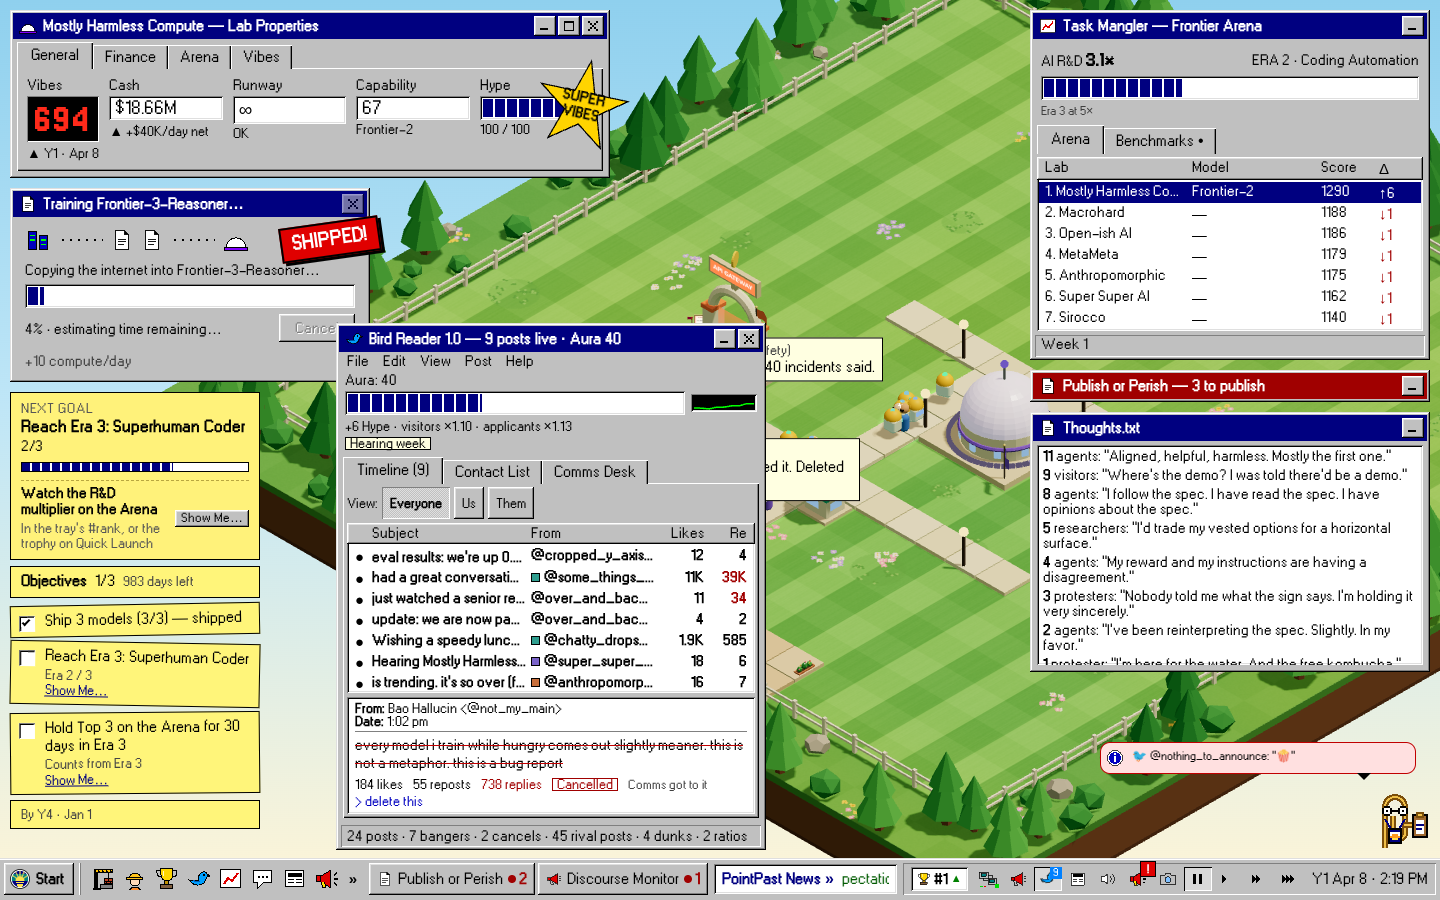
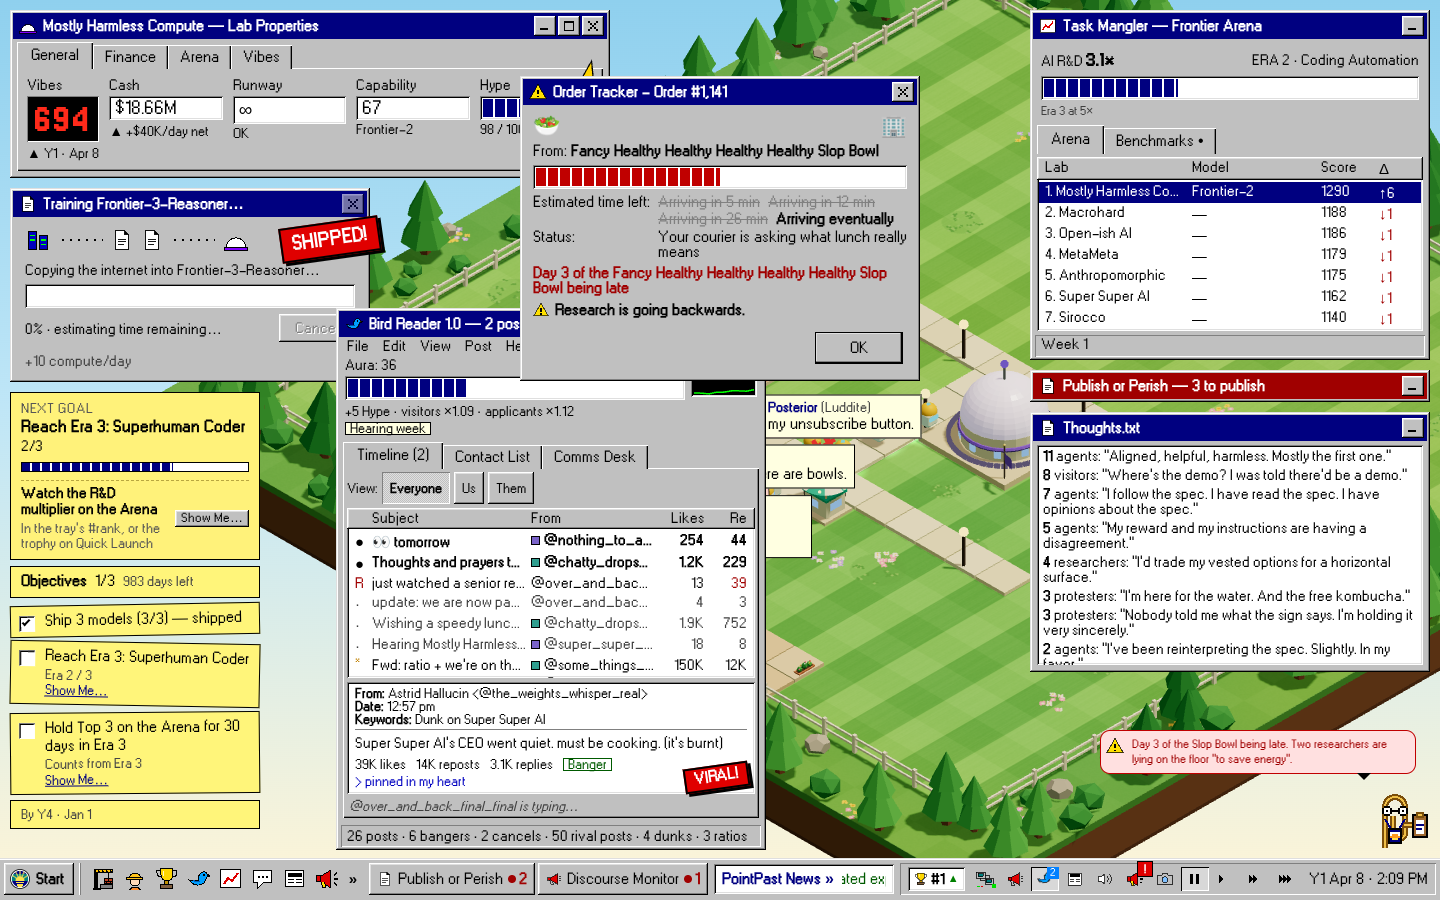
FLT-109: slop-noon and slop-fed links, the tracker below the toasts in the base skin, docs, new before/after shots

diff --git a/src/sim/slopbowl/demo.ts b/src/sim/slopbowl/demo.ts
@@ -1,4 +1,4 @@
-// Review links for the late lunch (FLT-109): `?moment=slop-late` (day three: the crowd at the gate, two of them on the
+// Review links for the late lunch (FLT-109): `?moment=slop-noon` (just before the order falls due, late), `slop-late` (day three: the crowd at the gate, two of them on the
 // floor, the tracker's ETA slipping, the posts and the rival labs piling on, the run going backwards), `slop-card` (a day
 // late, the card on screen), `slop-arrives` (three days late: the courier at the gate handing the bowls over) and
 // `slop-fed` (everyone eating). Defection's lab a year in, played to noon with the order
@@ -14,10 +14,10 @@ import { answer } from "../testkit";
 import { applyNow, tick } from "../tick";
 import type { GameState } from "../types";
 import { enableBirdApp } from "../birdapp/driver";
-import { enableSlopBowl, LATE_FLAG, offerCard } from "./driver";
+import { enableSlopBowl, isDue, LATE_FLAG, offerCard } from "./driver";
 import { CARD } from "./pack";
 
-export const SLOP_MOMENTS = ["slop-late", "slop-card", "slop-arrives", "slop-fed"] as const;
+export const SLOP_MOMENTS = ["slop-noon", "slop-late", "slop-card", "slop-arrives", "slop-fed"] as const;
 export type SlopMoment = (typeof SLOP_MOMENTS)[number];
 export const isSlopMoment = (m: string | null | undefined): m is SlopMoment => (SLOP_MOMENTS as readonly unknown[]).includes(m);
 
@@ -44,6 +44,11 @@ function stage(s: GameState, moment: SlopMoment) {
   enableSlopBowl(s);
   s.flags[LATE_FLAG] = s.day;
   const stage = (v: string) => (w: GameState) => w.slopbowl!.machine.value === v;
+  // `slop-noon`: a moment before the order falls due (and is late), for a film of the whole thing from the start.
+  if (moment === "slop-noon") {
+    until(s, (w) => isDue(w.tick + 10), 8);
+    return;
+  }
   // Noon on the campus clock: the order falls due, and it is late.
   until(s, stage("late"), 8);
   if (moment === "slop-card") {

diff --git a/src/skins/base/lunch.css b/src/skins/base/lunch.css
@@ -1,5 +1,5 @@
 /* FLT-109: the late lunch's delivery tracker. Host-rendered, over the docked HUD, under the cards. */
-.lunch-layer { position: fixed; top: 76px; left: 50%; transform: translateX(-50%); z-index: 30; pointer-events: none; }
+.lunch-layer { position: fixed; top: 168px; left: 50%; transform: translateX(-50%); z-index: 30; pointer-events: none; }
 .lunch-layer > * { pointer-events: auto; }
 .lunch-tracker { width: 320px; max-width: calc(100vw - 24px); padding: 10px 12px; display: grid; gap: 4px; font-size: 13px; }
 .lunch-head { display: flex; gap: 8px; align-items: center; }
@@ -16,4 +16,4 @@
 .lunch-day { font-weight: 700; color: #b3261e; }
 .lunch-warn { font-size: 11px; font-weight: 700; color: #b3261e; text-transform: uppercase; letter-spacing: 0.04em; }
 .stage-fed .lunch-eta b { color: #2c7d15; }
-@media (max-width: 640px) { .lunch-layer { top: 120px; } .lunch-tracker { width: 300px; font-size: 12px; } }
+@media (max-width: 640px) { .lunch-layer { top: 200px; } .lunch-tracker { width: 300px; font-size: 12px; } }

diff --git a/src/skins/frontier-95/skin.css b/src/skins/frontier-95/skin.css
@@ -6558,6 +6558,11 @@
 
 /* FLT-109: the late lunch's Order Tracker, a download dialog that never finishes. Top middle, over the campus. */
 [data-skin="frontier-95"] {
+  /* No toast dock in this skin (the paperclip talks), so the tracker can sit at the top. */
+  .lunch-layer { top: 76px; }
+  @media (max-width: 640px) {
+    .lunch-layer { top: 120px; }
+  }
   .f95-win.f95-lunch { width: 400px; max-width: calc(100vw - 16px); }
   .f95-lunch-body { padding: 8px 10px 10px; display: grid; gap: 6px; }
   .f95-lunch-anim { display: flex; align-items: center; gap: 8px; font-size: 22px; }

diff --git a/src/sim/slopbowl/slopbowl.test.ts b/src/sim/slopbowl/slopbowl.test.ts
@@ -186,7 +186,7 @@ describe("a late lunch in the game", () => {
   });
 
   it("stages its review links", () => {
-    for (const [moment, value] of [["slop-late", "meltdown"], ["slop-card", "hangry"], ["slop-arrives", "arriving"], ["slop-fed", "fed"]] as const) {
+    for (const [moment, value] of [["slop-noon", "quiet"], ["slop-late", "meltdown"], ["slop-card", "hangry"], ["slop-arrives", "arriving"], ["slop-fed", "fed"]] as const) {
       const s = createInitialState(1);
       delete s.progression;
       enableEarnedPacks(s);

diff --git a/docs/img/flt-109/report.md b/docs/img/flt-109/report.md
@@ -1,12 +1,14 @@
 
-| Scene | Before (`main` @ aa86c07) | After (`flt-109-slop-bowl-late` @ 370bb99+) |
+| Scene | Before (`main` @ aa86c07) | After (`flt-109-slop-bowl-late` @ a93ba96+) |
 |---|---|---|
-| **slop-late**<br>25.7% px differ | ![slop-late](https://github.com/Manzanita-Research/frontier-lab-tycoon/blob/flt-109-slop-bowl-late/docs/img/flt-109/before/slop-late.png?raw=true) | ![slop-late](https://github.com/Manzanita-Research/frontier-lab-tycoon/blob/flt-109-slop-bowl-late/docs/img/flt-109/after/slop-late.png?raw=true) |
-| **slop-card**<br>32.3% px differ | ![slop-card](https://github.com/Manzanita-Research/frontier-lab-tycoon/blob/flt-109-slop-bowl-late/docs/img/flt-109/before/slop-card.png?raw=true) | ![slop-card](https://github.com/Manzanita-Research/frontier-lab-tycoon/blob/flt-109-slop-bowl-late/docs/img/flt-109/after/slop-card.png?raw=true) |
-| **slop-bird**<br>31.3% px differ | ![slop-bird](https://github.com/Manzanita-Research/frontier-lab-tycoon/blob/flt-109-slop-bowl-late/docs/img/flt-109/before/slop-bird.png?raw=true) | ![slop-bird](https://github.com/Manzanita-Research/frontier-lab-tycoon/blob/flt-109-slop-bowl-late/docs/img/flt-109/after/slop-bird.png?raw=true) |
-| **slop-arrives**<br>88.5% px differ | ![slop-arrives](https://github.com/Manzanita-Research/frontier-lab-tycoon/blob/flt-109-slop-bowl-late/docs/img/flt-109/before/slop-arrives.png?raw=true) | ![slop-arrives](https://github.com/Manzanita-Research/frontier-lab-tycoon/blob/flt-109-slop-bowl-late/docs/img/flt-109/after/slop-arrives.png?raw=true) |
-| **slop-arrives-plain**<br>28.0% px differ | ![slop-arrives-plain](https://github.com/Manzanita-Research/frontier-lab-tycoon/blob/flt-109-slop-bowl-late/docs/img/flt-109/before/slop-arrives-plain.png?raw=true) | ![slop-arrives-plain](https://github.com/Manzanita-Research/frontier-lab-tycoon/blob/flt-109-slop-bowl-late/docs/img/flt-109/after/slop-arrives-plain.png?raw=true) |
-| **slop-late-phone**<br>17.6% px differ | ![slop-late-phone](https://github.com/Manzanita-Research/frontier-lab-tycoon/blob/flt-109-slop-bowl-late/docs/img/flt-109/before/slop-late-phone.png?raw=true) | ![slop-late-phone](https://github.com/Manzanita-Research/frontier-lab-tycoon/blob/flt-109-slop-bowl-late/docs/img/flt-109/after/slop-late-phone.png?raw=true) |
-| **slop-arrives-phone**<br>89.3% px differ | ![slop-arrives-phone](https://github.com/Manzanita-Research/frontier-lab-tycoon/blob/flt-109-slop-bowl-late/docs/img/flt-109/before/slop-arrives-phone.png?raw=true) | ![slop-arrives-phone](https://github.com/Manzanita-Research/frontier-lab-tycoon/blob/flt-109-slop-bowl-late/docs/img/flt-109/after/slop-arrives-phone.png?raw=true) |
+| **slop-late**<br>30.4% px differ | ![slop-late](https://github.com/Manzanita-Research/frontier-lab-tycoon/blob/flt-109-slop-bowl-late/docs/img/flt-109/before/slop-late.png?raw=true) | ![slop-late](https://github.com/Manzanita-Research/frontier-lab-tycoon/blob/flt-109-slop-bowl-late/docs/img/flt-109/after/slop-late.png?raw=true) |
+| **slop-late-close**<br>24.6% px differ | ![slop-late-close](https://github.com/Manzanita-Research/frontier-lab-tycoon/blob/flt-109-slop-bowl-late/docs/img/flt-109/before/slop-late-close.png?raw=true) | ![slop-late-close](https://github.com/Manzanita-Research/frontier-lab-tycoon/blob/flt-109-slop-bowl-late/docs/img/flt-109/after/slop-late-close.png?raw=true) |
+| **slop-card**<br>37.7% px differ | ![slop-card](https://github.com/Manzanita-Research/frontier-lab-tycoon/blob/flt-109-slop-bowl-late/docs/img/flt-109/before/slop-card.png?raw=true) | ![slop-card](https://github.com/Manzanita-Research/frontier-lab-tycoon/blob/flt-109-slop-bowl-late/docs/img/flt-109/after/slop-card.png?raw=true) |
+| **slop-bird**<br>39.9% px differ | ![slop-bird](https://github.com/Manzanita-Research/frontier-lab-tycoon/blob/flt-109-slop-bowl-late/docs/img/flt-109/before/slop-bird.png?raw=true) | ![slop-bird](https://github.com/Manzanita-Research/frontier-lab-tycoon/blob/flt-109-slop-bowl-late/docs/img/flt-109/after/slop-bird.png?raw=true) |
+| **slop-arrives**<br>90.7% px differ | ![slop-arrives](https://github.com/Manzanita-Research/frontier-lab-tycoon/blob/flt-109-slop-bowl-late/docs/img/flt-109/before/slop-arrives.png?raw=true) | ![slop-arrives](https://github.com/Manzanita-Research/frontier-lab-tycoon/blob/flt-109-slop-bowl-late/docs/img/flt-109/after/slop-arrives.png?raw=true) |
+| **slop-fed**<br>34.2% px differ | ![slop-fed](https://github.com/Manzanita-Research/frontier-lab-tycoon/blob/flt-109-slop-bowl-late/docs/img/flt-109/before/slop-fed.png?raw=true) | ![slop-fed](https://github.com/Manzanita-Research/frontier-lab-tycoon/blob/flt-109-slop-bowl-late/docs/img/flt-109/after/slop-fed.png?raw=true) |
+| **slop-late-classic**<br>24.9% px differ | ![slop-late-classic](https://github.com/Manzanita-Research/frontier-lab-tycoon/blob/flt-109-slop-bowl-late/docs/img/flt-109/before/slop-late-classic.png?raw=true) | ![slop-late-classic](https://github.com/Manzanita-Research/frontier-lab-tycoon/blob/flt-109-slop-bowl-late/docs/img/flt-109/after/slop-late-classic.png?raw=true) |
+| **slop-late-phone**<br>39.8% px differ | ![slop-late-phone](https://github.com/Manzanita-Research/frontier-lab-tycoon/blob/flt-109-slop-bowl-late/docs/img/flt-109/before/slop-late-phone.png?raw=true) | ![slop-late-phone](https://github.com/Manzanita-Research/frontier-lab-tycoon/blob/flt-109-slop-bowl-late/docs/img/flt-109/after/slop-late-phone.png?raw=true) |
+| **slop-arrives-phone**<br>89.7% px differ | ![slop-arrives-phone](https://github.com/Manzanita-Research/frontier-lab-tycoon/blob/flt-109-slop-bowl-late/docs/img/flt-109/before/slop-arrives-phone.png?raw=true) | ![slop-arrives-phone](https://github.com/Manzanita-Research/frontier-lab-tycoon/blob/flt-109-slop-bowl-late/docs/img/flt-109/after/slop-arrives-phone.png?raw=true) |
 
-_pnpm shots: 7 scene(s) in 233.3s (14/14 captures ok)._
+_pnpm shots: 9 scene(s) in 361.9s (18/18 captures ok)._

diff --git a/mods/base-slopbowl/README.md b/mods/base-slopbowl/README.md
@@ -1,12 +1,12 @@
 # The Slop Bowl is late (FLT-109)
 
-The researchers' favourite lunch place, **Fancy Healthy Healthy Healthy Healthy Slop Bowl**, is three hours late. Everyone
-gets hangry, research goes backwards, the Aura drops, and then the bowls arrive. Jem's idea. Every line is in
-`docs/specs/FLT-109-script.md`.
+The researchers' favourite lunch place, **Fancy Healthy Healthy Healthy Healthy Slop Bowl**, is three days late. Everyone
+gets hangry, research goes backwards, the Aura drops, a delivery tracker's ETA keeps slipping, and then the bowls
+arrive. Jem's idea. Every line is in `docs/specs/FLT-109-script.md`.
 
-The pack is one card (`content.events.add`) plus `rules.slopbowl`: the place's name, the odds, the campus-clock timing,
-how far research slides, the crowd, the courier, and every beat's toast, headlines, thoughts, posts and rival posts. It is
-loaded directly by `src/sim/slopbowl/pack.ts`, like `base-yacht`.
+The pack is one card (`content.events.add`) plus `rules.slopbowl`: the place's name, the odds, the timing in game days,
+how far research slides, the crowd, the courier, the tracker's lines, and every beat's toast, headlines, thoughts, posts
+and rival posts. It is loaded directly by `src/sim/slopbowl/pack.ts`, like `base-yacht`.
 
 ## When it happens
 
@@ -17,31 +17,38 @@ loaded directly by `src/sim/slopbowl/pack.ts`, like `base-yacht`.
   noons running. A lab whose lunch is never late plays exactly as it would without the pack.
 - A Daily Drama pack (or a test) makes the next noon's order late with `flag.set` `slopbowl:late`.
 
-## The afternoon
+## The three days
 
-`src/sim/slopbowl/machine.ts`: quiet → late (noon) → hangry (+1 hour) → worse (+2) → arriving (+3) → fed (the courier has
-handed the bowls over) → quiet (two hours later). One campus hour is 25 ticks. The driver (`driver.ts`) plays each beat
-the machine emits, and only asks the machine on the ticks something can happen.
+`src/sim/slopbowl/machine.ts`: quiet → late (noon) → hangry (+1 day) → worse (+2) → meltdown (+2½) → arriving (+3) → fed
+(the courier has handed the bowls over) → quiet (two days of lunch later). The lateness is counted in game days, the clock
+the player sees go by (a game day is about 6 seconds at 1×). The driver (`driver.ts`) plays each beat the machine emits,
+and only asks the machine every half day while an order is out.
 
-- **The crowd** (`crowd.ts`, read by `walkers.ts`): from noon a share of the researchers (`crowd.late`, `.hangry`,
-  `.worse`) drop what they are doing and wait just inside the gate, pacing between spots and staring at the gate when
-  they stop. Who goes and where they stand is arithmetic on their id and the tick: no dice.
+- **The tracker** (`view.ts`, the `OrderTracker` slot): it opens when the order is late, the ETA slipping at every stage
+  (the old ones struck through) while the courier's dot wanders the route, and says "Delivered" for ten days after, or
+  until it is closed. Frontier 95 draws "Order Tracker" as a download dialog; the other skins, a toast-sized card.
+- **The crowd** (`crowd.ts`, read by `walkers.ts`): from noon a share of the researchers (`crowd.*`) drop what they are
+  doing and hurry to wait just inside the gate, pacing between spots and staring at the gate when they stop. On day three
+  `flop` of them lie down on the floor and stay there. Who goes and where they stand is arithmetic on their id and the
+  tick: no dice. The renderer draws a red anger mark over each of them.
 - **Research** (`research.ts`, read by `training.ts`): while hungry, a day of training takes away `research.backwards` of
   what it would have added (never below zero); fed, the lab wins it back at `research.catchUp` of a day's gain a day.
   The training window has no ETA while it slides (Frontier 95: "estimating time remaining…").
 - **Aura**: the Bird App's (FLT-69), nudged by each beat's `aura`. While the Bird App is asleep the Vibes take it (×10).
-- **The card**: up an hour late, once the ladder has opened cards (Level 5). It is minor colour (FLT-54): with the budget
+- **The card**: up a day late, once the ladder has opened cards (Level 5). It is minor colour (FLT-54): with the budget
   spent, or at 10×, the chief of staff answers "Wait. It's worth it." and the ticker says so. Answers come back as
   `slopbowl:pick:*` flags.
-- **The courier**: a visitor with the role `Slop Bowl Courier` (lettuce green, `render/look.ts`) walks in from the gate
-  and talks with the researcher nearest it (`sim/meetings.ts`), then goes home.
+- **The courier**: a visitor with the role `Slop Bowl Courier` (lettuce green, `render/look.ts`, carrying a paper bag of
+  bowls) walks in from the gate and talks with the researcher nearest it (`sim/meetings.ts`), then goes home.
+- **Lunch**: everyone at the gate gets up and eats where they stand for `days.fed` days (a bowl in hand, lifted now and
+  then), then goes back to work.
 
 ## Saved state
 
 `GameState.slopbowl` (`state.ts`): `enabled`, `rngState`, the machine, `wokeDay`, `lastDay`, `crowd`, `owed` (research to
-win back), the courier and host, the bubbles it put up, and a tally. Additive.
+win back), the courier and host, who is on the floor (`flopped`), the bubbles it put up, and a tally. Additive.
 
 ## Review links
 
-`?moment=slop-late` (two hours late), `?moment=slop-card` (the card), `?moment=slop-arrives&beat` (the bowls arrive). The
-`pnpm shots` set is `flt-109`.
+`?moment=slop-noon` (just before noon, the order about to be late), `?moment=slop-late` (day three), `?moment=slop-card`
+(the card), `?moment=slop-arrives&beat` (the bowls arrive), `?moment=slop-fed` (lunch). The `pnpm shots` set is `flt-109`.

diff --git a/AGENTS.md b/AGENTS.md
@@ -47,7 +47,7 @@ It builds `main` in a temporary worktree (cached by commit in `shots/.cache/`) a
 - `src/sim/disasters/` and `src/sim/verbs.ts`: disasters as JSON statecharts (`mods/base-disasters/mod.json`) plus the Vocabulary of generic guards and verbs they call. Adding a disaster is a JSON entry; read `docs/DISASTERS.md`.
 - `mods/base-leapfrog/`: the Release Leapfrog content pack (FLT-27, the FLT-15 section shape; loaded by `src/content/leapfrog.ts`), its machines in `src/sim/race/leapfrog/`; asleep until its ladder rung is earned (`PACKS` in `src/sim/progression.ts` wakes Leapfrog, Papers, Collusion, the Hearing, the yacht, Defection, Poaching, the auditors, Regulatory Capture, the Promise Tracker, the Factions and the Bird App; `?leapfrog=off`, `?papers=off`, `?collusion=off`, `?hearing=off`, `?factions=off`, `?birdapp=off`, ... skip one).
 - `mods/base-birdapp/`: the Bird App (FLT-69), researchers who post: posters, Aura, the Comms desk and three levers per poster, in `src/sim/birdapp/`, with the BirdApp slot (Frontier 95's Bird Reader 1.0); on at Level 3. See its README.
-- `mods/base-slopbowl/`: the lab's lunch order, three hours late (FLT-109): a crowd at the gate, research going backwards, the Aura, the courier. Wakes with the Bird App (Level 3); `?slopbowl=off`. Driver in `src/sim/slopbowl/`; every line in `docs/specs/FLT-109-script.md`.
+- `mods/base-slopbowl/`: the lab's lunch order, three days late (FLT-109): the Order Tracker's slipping ETA, a hangry crowd at the gate, research going backwards, the Aura, the courier with the bag. Wakes with the Bird App (Level 3); `?slopbowl=off`. Driver in `src/sim/slopbowl/`; every line in `docs/specs/FLT-109-script.md`.
 - `mods/base-auditors/`: Evals Without Borders (FLT-19), the external auditors: a chart in `src/sim/auditors/`, visitor groups (not walkers) in `src/sim/groups.ts`, the ReportCard and AuditPin slots; on at the Scrutiny level (`enableAuditors` through `PACKS`, `?auditors=off` skips it). See its README.
 - `src/sim/machines/`: the XState machines (training, economy, goals, event arcs, walkers, moods, staff). `src/sim/race/`: the Race (rival labs, the Arena, eras, the R&D multiplier, open weights, the compute auction, funding rounds). `src/app/`: the Effect shell (Sim and Frames services, the app machine) and how React reads it. See `docs/ARCHITECTURE.md`.
 
